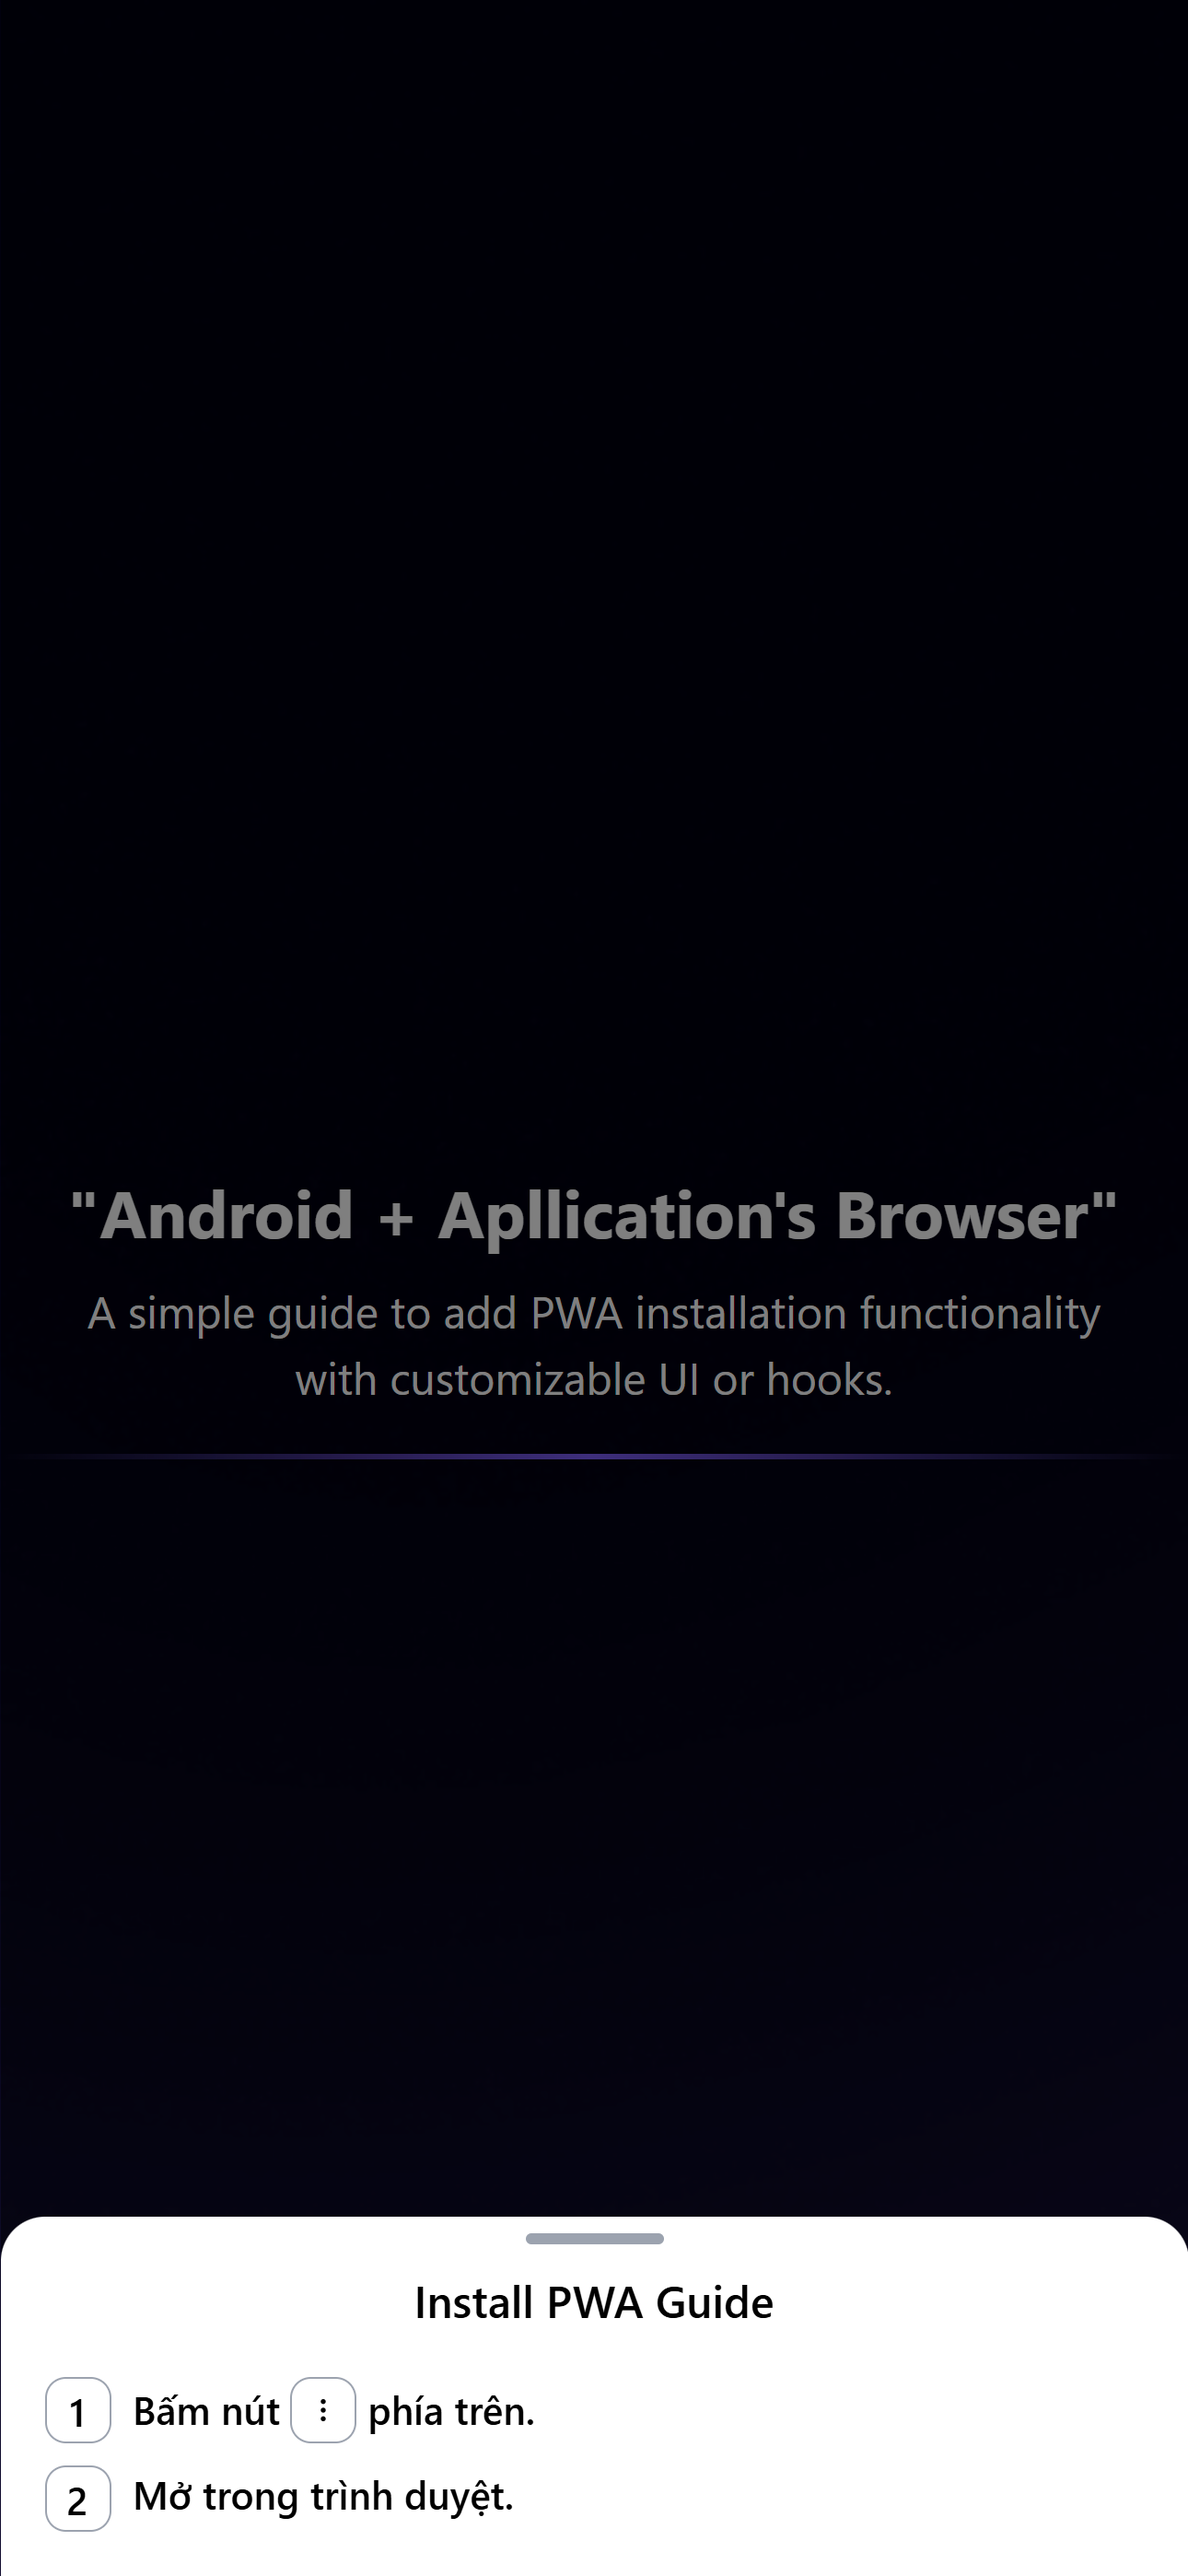
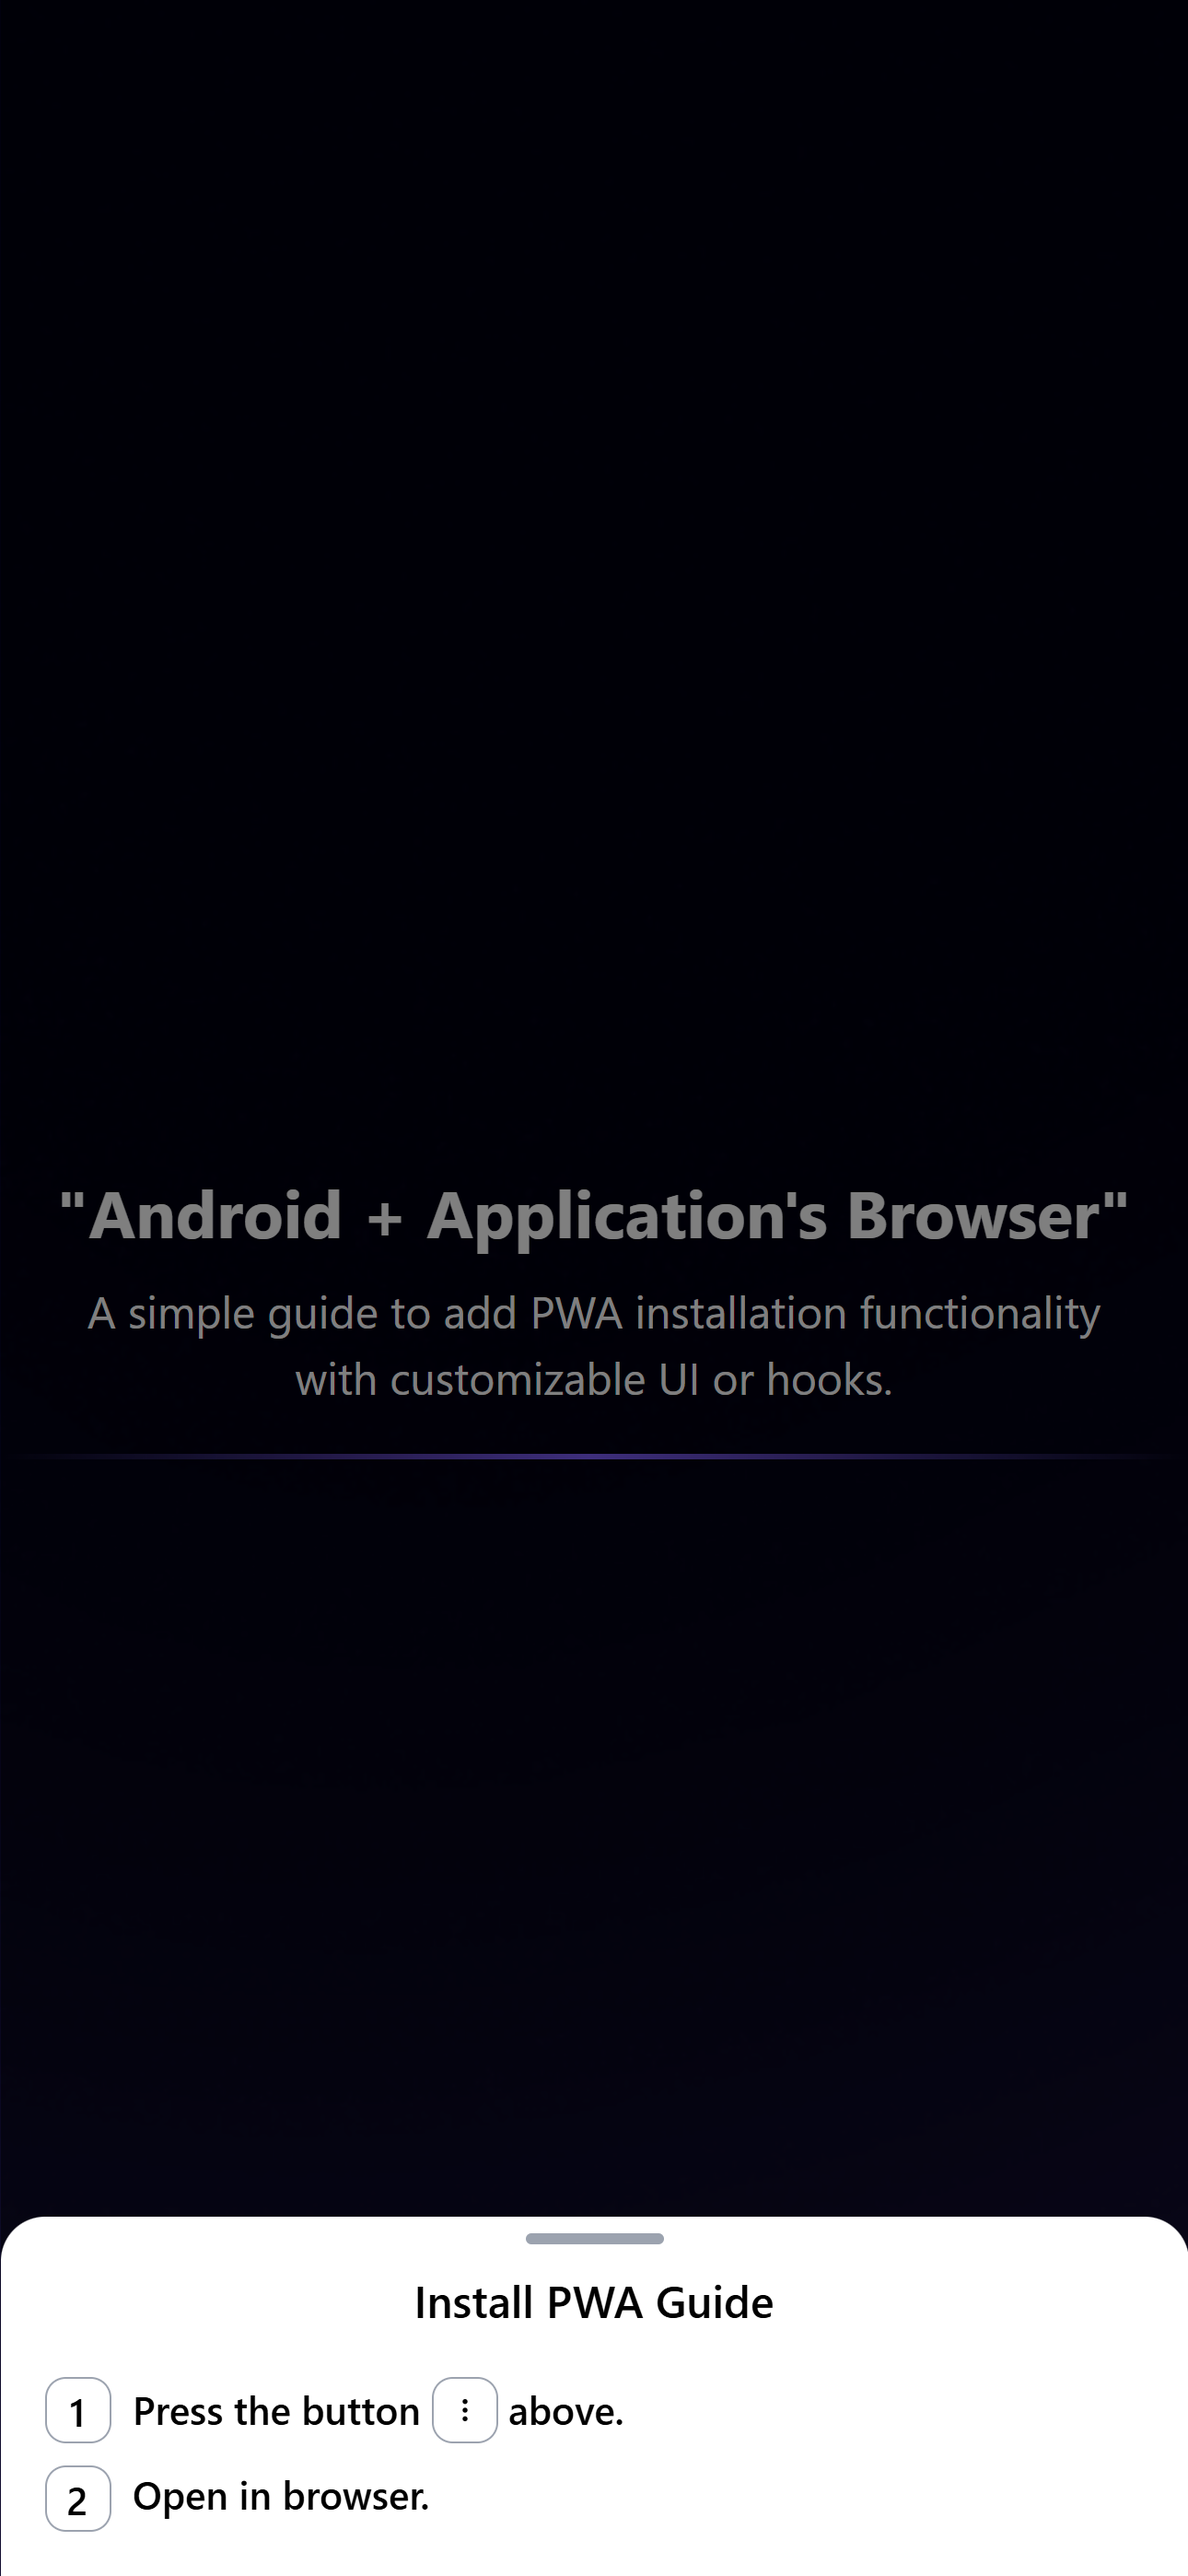
fix: update readme

Changed region(s): [[0.062, 0.4356, 0.9302, 0.4979], [0.124, 0.9335, 0.5271, 0.9957]]

diff --git a/src/components/pwa-install-guide/pwa-install-guide-content.tsx b/src/components/pwa-install-guide/pwa-install-guide-content.tsx
@@ -49,12 +49,12 @@ const PwaInstallGuideContent = ({
 
       return [
         <>
-          Bấm nút {wrapperIcon(<IIosSafariSharingApiButton2 />)} tại thanh công
-          cụ.
+          Press the button {wrapperIcon(<IIosSafariSharingApiButton2 />)} at the
+          toolbar.
         </>,
         <>
-          Chọn {wrapperIcon(<IIosSafariAddToHomeScreenButton2 />)} từ menu đã
-          hiển thị. Bạn có thể cần phải cuộn xuống để tìm mục này.
+          Choose {wrapperIcon(<IIosSafariAddToHomeScreenButton2 />)} from the
+          displayed menu. You may need to scroll down to find this item.
         </>,
       ];
     } else if (isBrowserIOSChrome()) {
@@ -62,35 +62,35 @@ const PwaInstallGuideContent = ({
 
       return [
         <>
-          Bấm nút {wrapperIcon(<IIosSafariSharingApiButton2 />)} tại góc phía
-          trên bên phải.
+          Press the button {wrapperIcon(<IIosSafariSharingApiButton2 />)} in the
+          upper right corner.
         </>,
         <>
-          Chọn {wrapperIcon(<IIosSafariAddToHomeScreenButton2 />)} từ menu đã
-          hiển thị. Bạn có thể cần phải cuộn xuống để tìm mục này.
+          Choose {wrapperIcon(<IIosSafariAddToHomeScreenButton2 />)} from the
+          displayed menu. You may need to scroll down to find this item.
         </>,
       ];
     } else if (isBrowserIOSInAppFacebook() || isBrowserIOSInAppLinkedin()) {
       // console.log("isBrowserIOSInAppFacebook");
       return [
-        <>Bấm nút {wrapperIcon(<IGenericMoreButton />)} phía dưới.</>,
-        <>Mở trong trình duyệt.</>,
+        <>Press the button {wrapperIcon(<IGenericMoreButton />)} below.</>,
+        <>Open in browser.</>,
       ];
     } else if (isBrowserIOSInAppInstagram()) {
       // console.log("isBrowserIOSInAppInstagram");
       return [
-        <>Bấm nút {wrapperIcon(<IUpload />)} phía dưới.</>,
+        <>Press the button {wrapperIcon(<IUpload />)} below.</>,
         <>
-          Chọn {wrapperIcon(<IOpeninsafariButton />)} từ menu đã hiển thị. Bạn
-          có thể cần phải cuộn xuống để tìm mục này.
+          Choose {wrapperIcon(<IOpeninsafariButton />)} from the displayed menu.
+          You may need to scroll down to find this item.
         </>,
       ];
     } else if (isBrowserIOSInAppThreads() || isBrowserIOSInAppTwitter()) {
       // console.log("isBrowserIOSInAppThreads");
       return [
         <>
-          Bấm nút {wrapperIcon(<IOpeninsafariButton />)} phía dưới để mở trình
-          duyệt từ hệ thống.
+          Press the button {wrapperIcon(<IOpeninsafariButton />)} below to open
+          the browser from the system.
         </>,
       ];
     } else {
@@ -115,8 +115,8 @@ const PwaInstallGuideContent = ({
     } else if (isBrowserAndroidFacebook()) {
       // console.log("isBrowserAndroidFacebook");
       return [
-        <>Bấm nút {wrapperIcon(<IGenericMoreButton2 />)} phía trên.</>,
-        <>Mở trong trình duyệt.</>,
+        <>Press the button {wrapperIcon(<IGenericMoreButton2 />)} above.</>,
+        <>Open in browser.</>,
       ];
     } else {
       // console.log("else");
@@ -131,9 +131,9 @@ const PwaInstallGuideContent = ({
       // console.log("isDesktopSafari");
       return [
         <>
-          Bấm {wrapperIcon(<IIosSafariSharingApiButton2 />)} tại thanh công cụ.
+          Press {wrapperIcon(<IIosSafariSharingApiButton2 />)} at the toolbar.
         </>,
-        <>Chọn {wrapperIcon(<IDesktopSafariDock />)} Thêm vào Dock</>,
+        <>Choose {wrapperIcon(<IDesktopSafariDock />)} Add to Dock</>,
       ];
     }
   }
